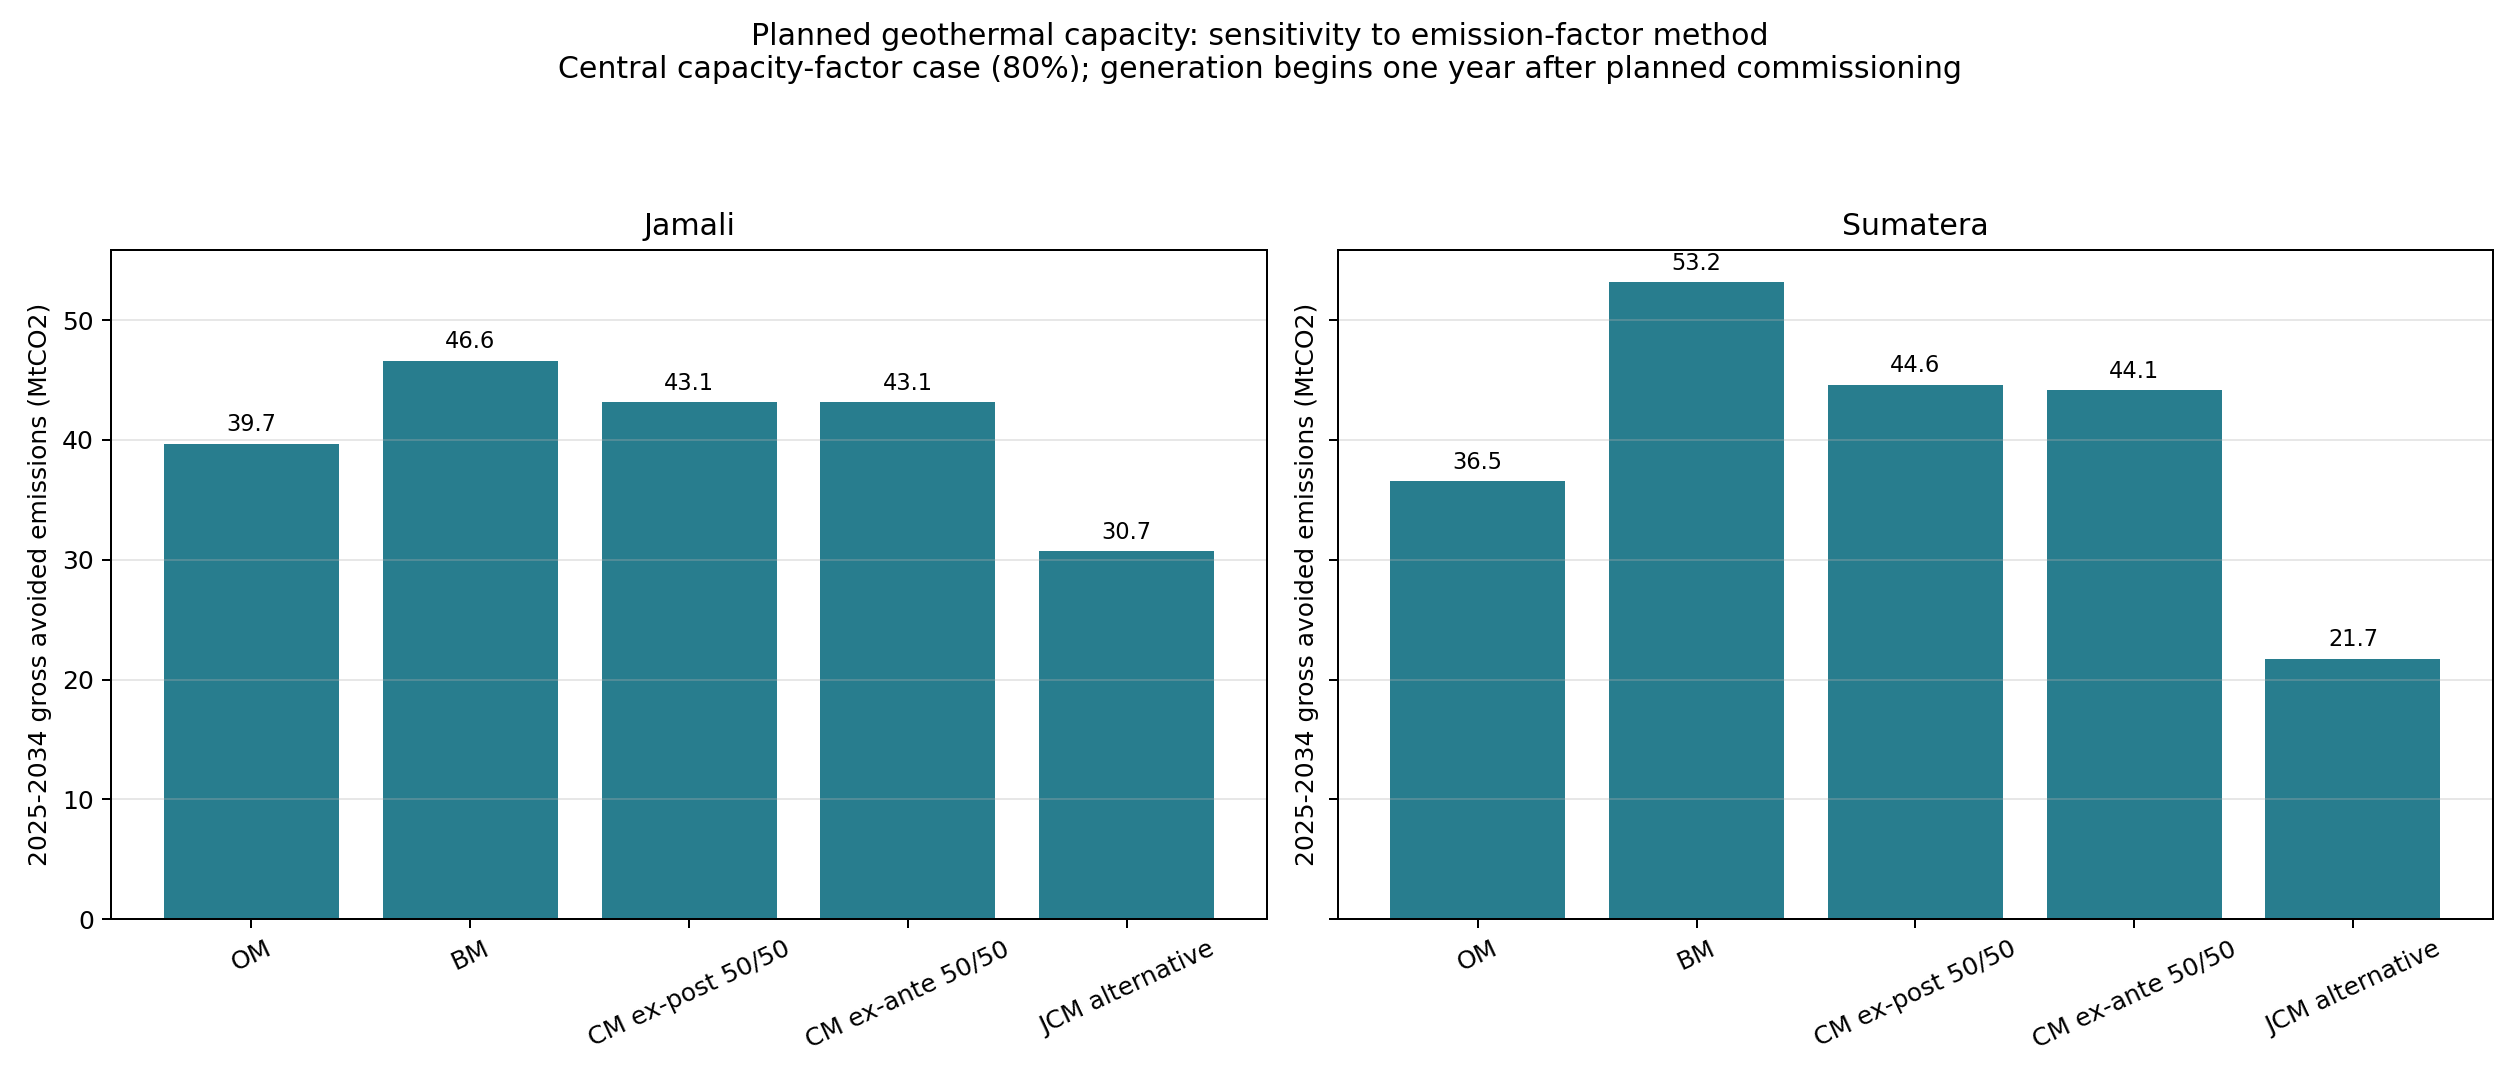
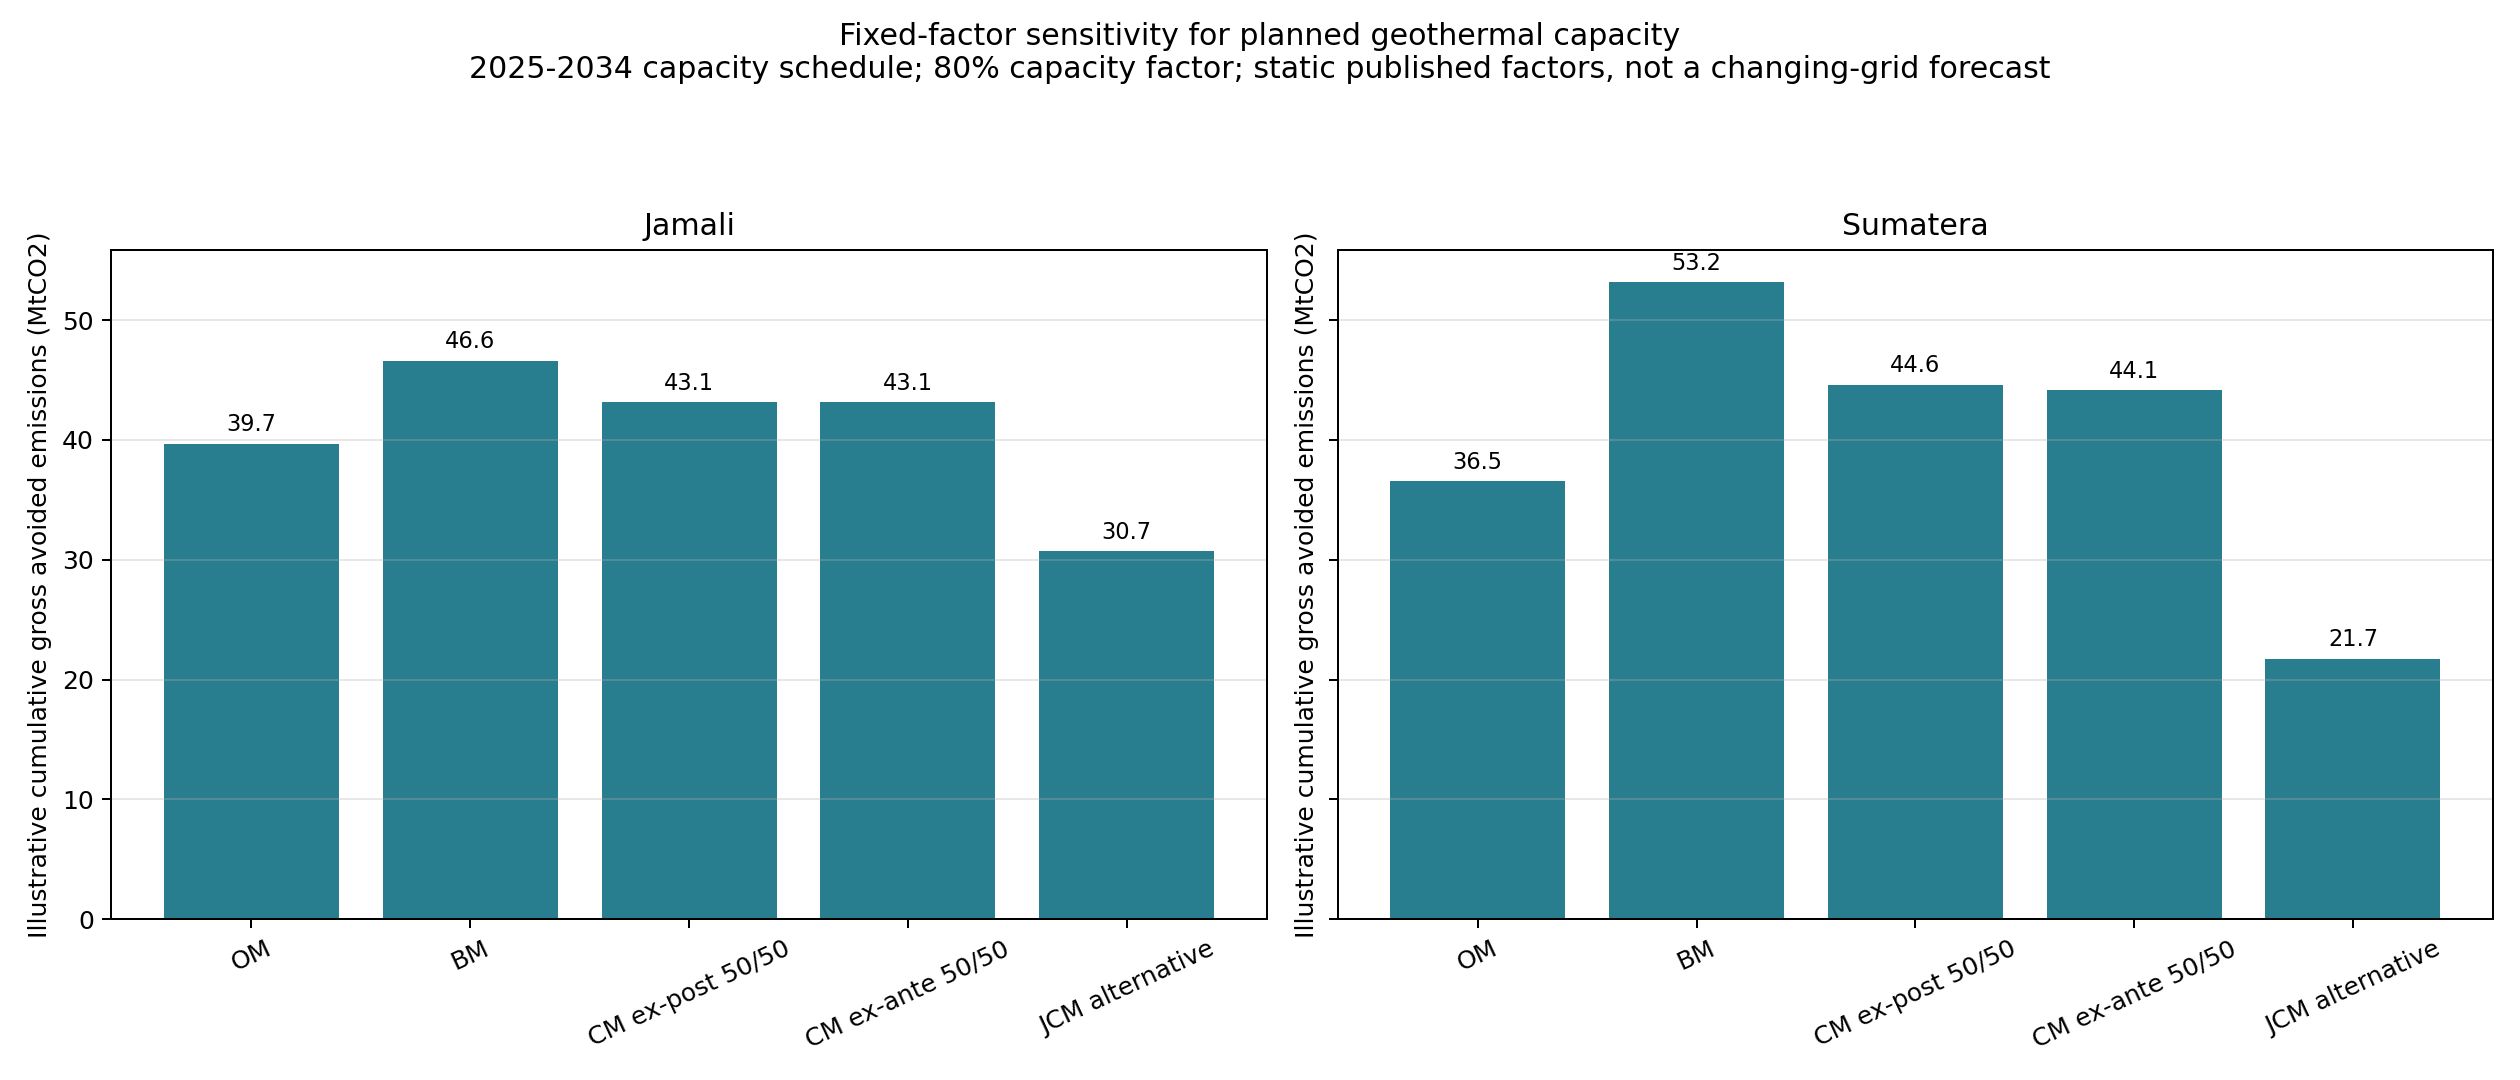
Add RUPTL scenario intensity proxy analysis

diff --git a/geothermal_credit_model/geothermal_credit_model.py b/geothermal_credit_model/geothermal_credit_model.py
@@ -18,6 +18,7 @@ import pandas as pd
 ROOT = Path(__file__).resolve().parent.parent
 MAPPING_FILE = ROOT / "geothermal_grid_mapping" / "output" / "planned_additions_by_grid_year.csv"
 ESDM_FILE = ROOT / "grid_data_sources" / "output" / "esdm_factors_2017_2019_study_grids.csv"
+RUPTL_INTENSITY_FILE = ROOT / "ruptl_eda" / "output" / "ruptl_projected_intensity.csv"
 OUTPUT_DIR = Path(__file__).resolve().parent / "output"
 
 GRIDS = ["Jamali", "Sumatera"]
@@ -98,12 +99,63 @@ def make_chart(summary):
         bars = ax.bar(data.index, data["gross_avoided_emissions_tco2"] / 1_000_000, color="#287d8e")
         ax.bar_label(bars, fmt="%.1f", padding=3, fontsize=9)
         ax.set_title(grid)
-        ax.set_ylabel("2025-2034 gross avoided emissions (MtCO2)")
+        ax.set_ylabel("Illustrative cumulative gross avoided emissions (MtCO2)")
         ax.tick_params(axis="x", rotation=25)
         ax.grid(axis="y", alpha=0.3)
-    fig.suptitle("Planned geothermal capacity: sensitivity to emission-factor method\nCentral capacity-factor case (80%); generation begins one year after planned commissioning")
+    fig.suptitle("Fixed-factor sensitivity for planned geothermal capacity\n2025-2034 capacity schedule; 80% capacity factor; static published factors, not a changing-grid forecast")
     fig.tight_layout(rect=(0, 0, 1, 0.92))
     fig.savefig(OUTPUT_DIR / "factor_method_sensitivity.png", dpi=180)
+    plt.close(fig)
+
+
+def build_ruptl_scenario_model():
+    """Apply projected RUPTL average intensity as an explicitly non-crediting proxy."""
+    capacity = planned_capacity()
+    intensity = pd.read_csv(RUPTL_INTENSITY_FILE)
+    intensity = intensity[intensity["grid"].isin(GRIDS) & intensity["year"].isin(YEARS)]
+    rows = []
+    for grid in GRIDS:
+        cohorts = capacity[capacity["grid"].eq(grid)]
+        for year in YEARS:
+            operating_mw = cohorts.loc[
+                cohorts["generation_start_year"].le(year), "capacity_added_mw"
+            ].sum()
+            for case, capacity_factor in CAPACITY_FACTORS.items():
+                generation_mwh = operating_mw * 8760 * capacity_factor
+                for _, projected in intensity[intensity["grid"].eq(grid) & intensity["year"].eq(year)].iterrows():
+                    rows.append({
+                        "grid": grid,
+                        "year": year,
+                        "ruptl_scenario": projected["scenario"],
+                        "capacity_factor_case": case,
+                        "capacity_factor": capacity_factor,
+                        "operating_planned_capacity_mw": operating_mw,
+                        "estimated_generation_mwh": generation_mwh,
+                        "ruptl_average_intensity_tco2_per_mwh": projected["average_tco2_per_mwh"],
+                        "intensity_weighted_proxy_tco2": generation_mwh * projected["average_tco2_per_mwh"],
+                        "interpretation": "Illustrative intensity-weighted proxy; not an official crediting factor or marginal avoided-emissions estimate",
+                    })
+    return pd.DataFrame(rows)
+
+
+def make_ruptl_scenario_chart(scenario_model):
+    central = scenario_model[scenario_model["capacity_factor_case"].eq("Central (80%)")]
+    fig, axes = plt.subplots(1, 2, figsize=(13, 5.5), sharey=True)
+    colors = {"RE Base": "#287d8e", "ARED": "#e58b37"}
+    for ax, grid in zip(axes, GRIDS):
+        data = central[central["grid"].eq(grid)]
+        for scenario in ["RE Base", "ARED"]:
+            pathway = data[data["ruptl_scenario"].eq(scenario)].sort_values("year")
+            ax.plot(pathway["year"], pathway["intensity_weighted_proxy_tco2"] / 1_000_000,
+                    marker="o", linewidth=2, label=scenario, color=colors[scenario])
+        ax.set_title(grid)
+        ax.set_xlabel("Year")
+        ax.grid(alpha=0.3)
+        ax.legend(title="RUPTL pathway")
+    axes[0].set_ylabel("Annual intensity-weighted proxy (MtCO₂; 80% capacity factor)")
+    fig.suptitle("RUPTL scenario proxy for planned geothermal generation, 2025–2034\nBased on estimated generation at an 80% capacity factor; not an official crediting estimate")
+    fig.tight_layout(rect=(0, 0, 1, 0.88))
+    fig.savefig(OUTPUT_DIR / "ruptl_scenario_intensity_proxy.png", dpi=180)
     plt.close(fig)
 
 
@@ -118,6 +170,9 @@ def main():
     summary.to_csv(OUTPUT_DIR / "planned_geothermal_credit_potential_summary.csv", index=False)
     factor_methods().to_csv(OUTPUT_DIR / "emission_factor_methods.csv", index=False)
     planned_capacity().to_csv(OUTPUT_DIR / "planned_geothermal_capacity_cohorts.csv", index=False)
+    scenario_model = build_ruptl_scenario_model()
+    scenario_model.to_csv(OUTPUT_DIR / "ruptl_scenario_intensity_proxy.csv", index=False)
+    make_ruptl_scenario_chart(scenario_model)
     make_chart(summary)
     print(summary.to_string(index=False, float_format="{:.0f}".format))
 

diff --git a/geothermal_credit_model/README.md b/geothermal_credit_model/README.md
@@ -1,6 +1,6 @@
 # Planned geothermal: gross avoided-emissions model
 
-This model estimates the potential avoided grid emissions from capacity planned in GENESIS for Jamali and Sumatera between 2025 and 2034. It is not a calculation of issued carbon credits.
+This model compares the potential gross avoided grid emissions from GENESIS capacity planned for Jamali and Sumatera between 2025 and 2034. It is not a calculation of issued carbon credits or a forecast of how grid emission factors will change through 2034.
 
 ## Calculation
 
@@ -10,7 +10,7 @@ For every year and grid:
 
 `gross avoided emissions (tCO2) = estimated generation (MWh) x emission factor (tCO2/MWh)`
 
-The model applies a one-year lag between the stated commissioning year and the first full generation year. This avoids assuming that a new unit produces a full year of electricity in its commissioning year. Capacity planned for 2034 therefore does not contribute within the 2025-2034 analysis window.
+The model applies a one-year lag between the stated commissioning year and the first full generation year. Capacity planned for 2034 therefore does not contribute within the 2025-2034 analysis window. The capacity schedule is future-facing, but the emission factors are held fixed across all years. The cumulative values are consequently an illustrative sensitivity comparison, not a forecast of annual or cumulative crediting under changing grid conditions.
 
 ## Capacity-factor scenarios
 
@@ -18,11 +18,21 @@ The low, central, and high cases are 70%, 80%, and 90%. The central 80% case is 
 
 ## Factor-method sensitivity
 
-The model holds generation constant and changes only the emission factor. It compares ESDM 2019 OM, BM, CM ex-post 50/50 and CM ex-ante 50/50 with the separate JCM alternative. ESDM factors are official historical/projecting grid factors, while the JCM factors use a different methodology and period; the JCM values are included for sensitivity, not as an interchangeable official replacement.
+The model holds generation constant and changes only the emission factor. It compares ESDM's 2019 OM, BM, CM ex-post 50/50 and CM ex-ante 50/50 values with the separate JCM alternative. The OM, BM and ex-post CM values describe historical grid conditions based on 2019 data. The ex-ante CM is ESDM's forward-looking factor for its stated 2022-2030 period. The JCM factors refer to 2016-2018 and use a distinct methodology. Applying any one of these factors unchanged over the full 2025-2034 capacity schedule does not mean that it is valid for every future year. In this chart, these factors are included to isolate the effect of factor choice, not to assert a 2025-2034 forecast.
+
+For a future pathway, an official ex-ante factor can only support years within its published coverage. A separate, clearly labelled approach is needed for 2031-2034. RUPTL emissions divided by generation can describe projected average system intensity under RE Base and ARED, but this proxy is not an official OM, BM or CM and should not be presented as one.
+
+## RUPTL scenario comparison
+
+The separate `ruptl_scenario_intensity_proxy.csv` and `ruptl_scenario_intensity_proxy.png` combine each year's planned geothermal generation estimate with the RUPTL projected **average** grid intensity for the matching grid, year, and scenario (RE Base or ARED):
+
+`intensity-weighted proxy (tCO2) = estimated geothermal generation (MWh) x RUPTL average intensity (tCO2/MWh)`
+
+This gives a like-for-like illustration of how the RE Base and ARED system pathways change the intensity-weighted estimate through 2034. The chart shows annual values for the central 80% capacity-factor case; the CSV also includes 70% and 90% cases. It is a scenario comparison, not a forecast of credits or a method for calculating official avoided emissions. Average system intensity describes all generation in the RUPTL system; it does not identify which generators geothermal would displace. RUPTL projections may also already include the planned geothermal additions, so applying system-average intensity to those same additions can double count their effect if interpreted causally. Treat the output as an illustrative proxy only. It complements the fixed-factor sensitivity chart and does not replace official ESDM/JCM crediting methodologies.
 
 ## Limitations
 
-Results are gross avoided-emissions potential. They do not subtract project operational emissions, determine whether a project is additional, establish carbon-market eligibility, or account for monitoring, verification, registry rules, curtailment, transmission losses, or actual commissioning dates. They must not be reported as verified or issued credits.
+Results are gross avoided-emissions potential. They do not subtract project operational emissions, determine whether a project is additional, establish carbon-market eligibility, or account for monitoring, verification, registry rules, curtailment, transmission losses, or actual commissioning dates. They must not be reported as verified or issued credits. The fixed-factor sensitivity chart must not be described as a changing-grid forecast through 2034.
 
 ## Sources
 
@@ -30,3 +40,4 @@ Results are gross avoided-emissions potential. They do not subtract project oper
 * ESDM 2019 grid factors extracted from Kepmen ESDM 163.K/HK.02/MEM.S/2021.
 * ESDM, *Indonesian Technology Catalogue 2024*, geothermal section.
 * Pertamina Geothermal Energy published operating metrics.
+* PLN, *RUPTL 2025–2034*, projected generation and emissions under RE Base and ARED, processed in `ruptl_eda/output/ruptl_projected_intensity.csv`.
